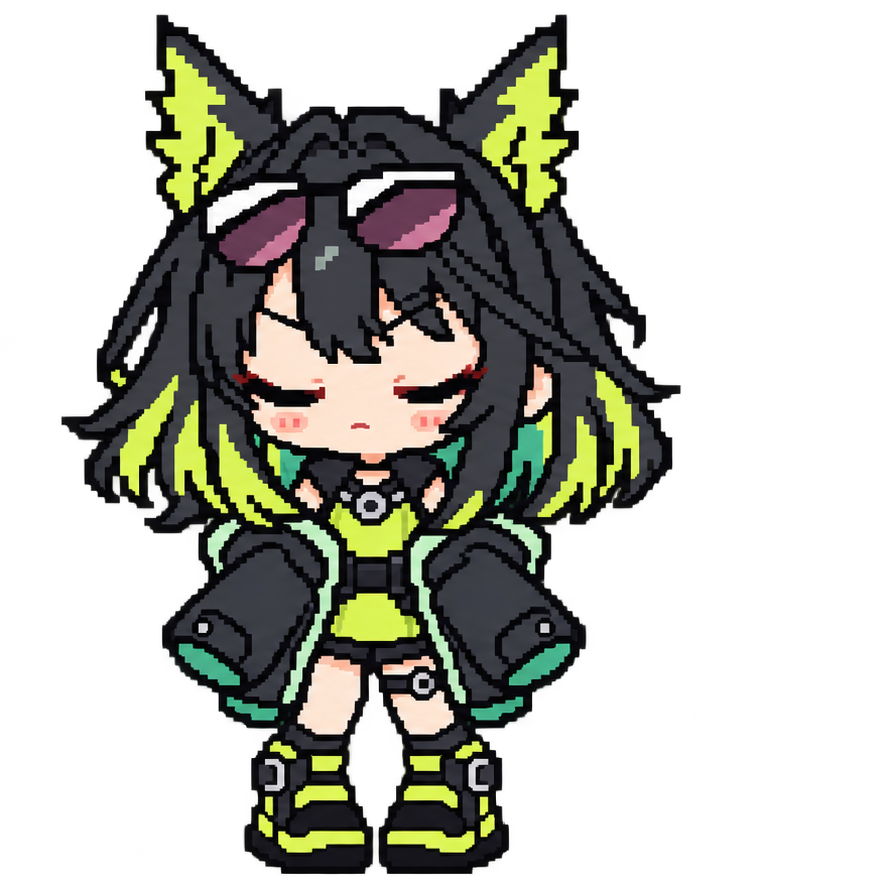
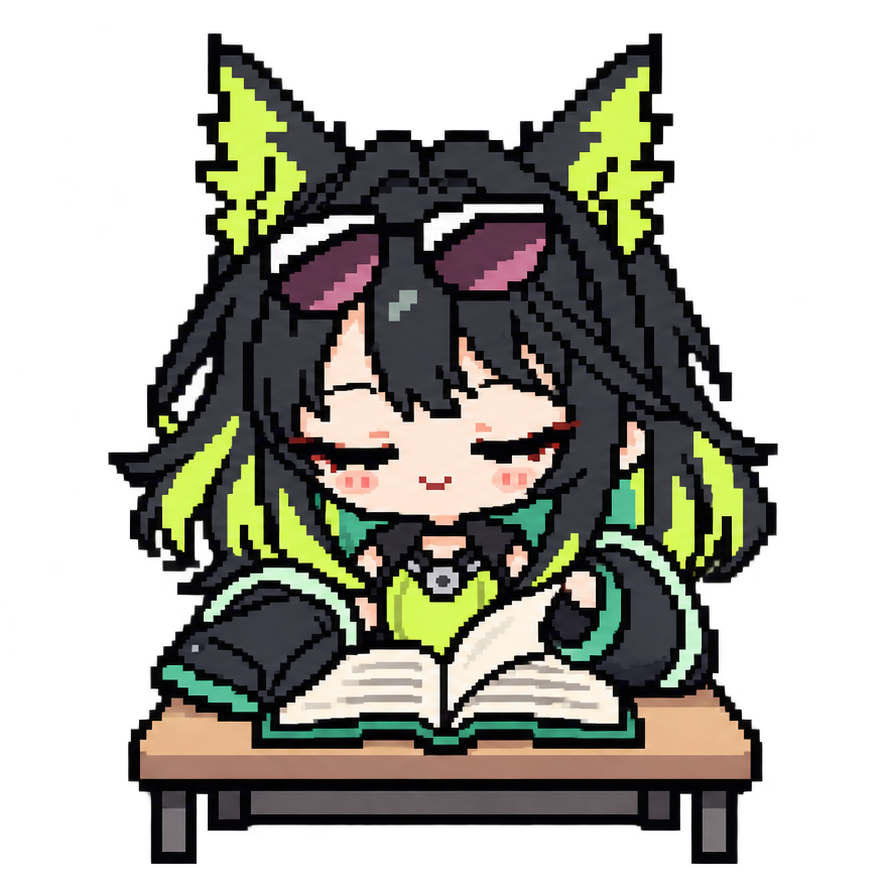
优化宠物动画表现，调整动画定时器设置，更新相关图像资源

diff --git a/pet/pet_window.py b/pet/pet_window.py
@@ -41,6 +41,9 @@ class PetWindow(QWidget):
         self._svg_renderer: QSvgRenderer | None = None
         self._frame_index = 0
         self._animation_timer = QTimer(self)
+        # Each state is a short action that settles into a pose.  Repeating a
+        # two-frame sprite indefinitely reads as distracting flicker.
+        self._animation_timer.setSingleShot(True)
         self._animation_timer.timeout.connect(self._advance_animation)
         self._idle_phase = 0.0
         self._reaction_token = 0
@@ -196,10 +199,10 @@ class PetWindow(QWidget):
             return
         self._frame_index = 0
         if len(self._frames) > 1:
-            # Slower breathing/sleep cycles, with quicker feedback for focus
-            # and happy actions, keep the pixel animation readable.
+            # Play the transition once, then keep the finished pose visible.
+            # This keeps the desktop companion calm instead of flashing.
             self._animation_timer.start(
-                440 if state in {PetState.IDLE, PetState.SLEEP} else 240
+                700 if state in {PetState.IDLE, PetState.SLEEP} else 520
             )
         else:
             self._animation_timer.stop()
@@ -208,7 +211,8 @@ class PetWindow(QWidget):
         if not self._frames:
             self._animation_timer.stop()
             return
-        self._frame_index = (self._frame_index + 1) % len(self._frames)
+        self._frame_index = min(self._frame_index + 1, len(self._frames) - 1)
+        self._animation_timer.stop()
         self.update()
 
     def _advance_idle_motion(self) -> None:
